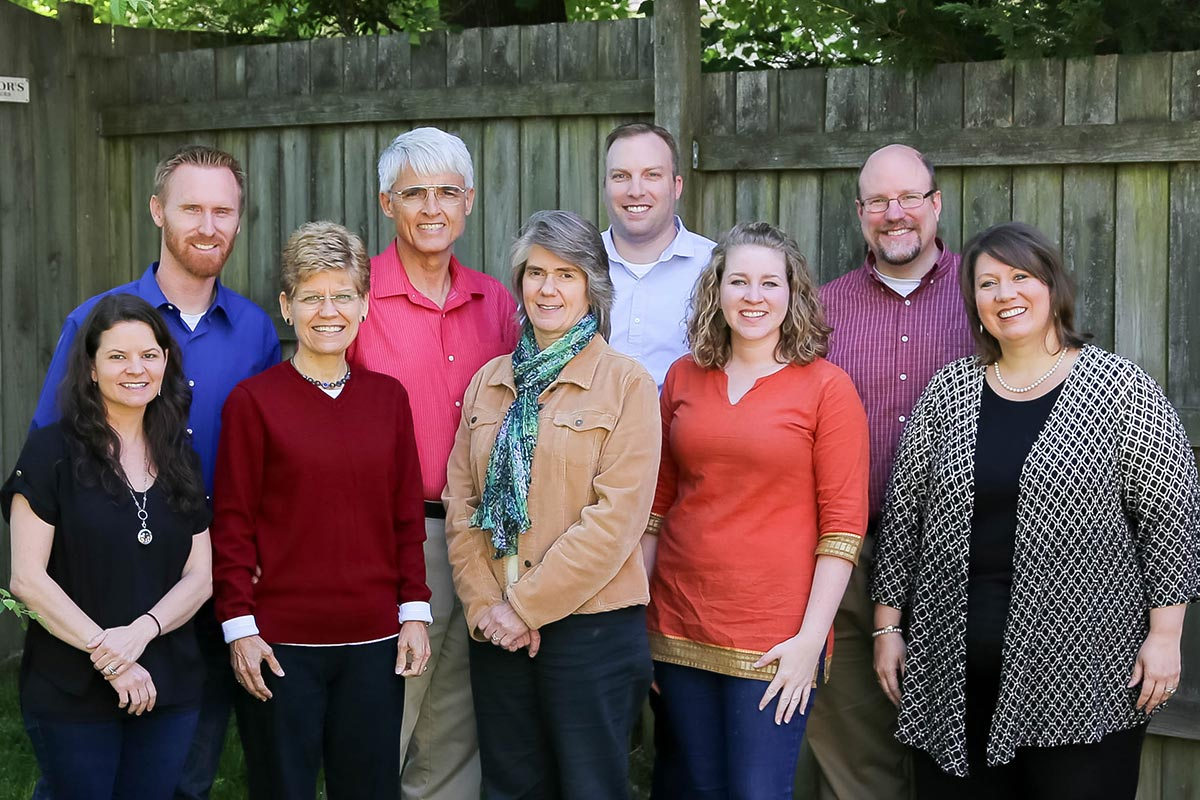
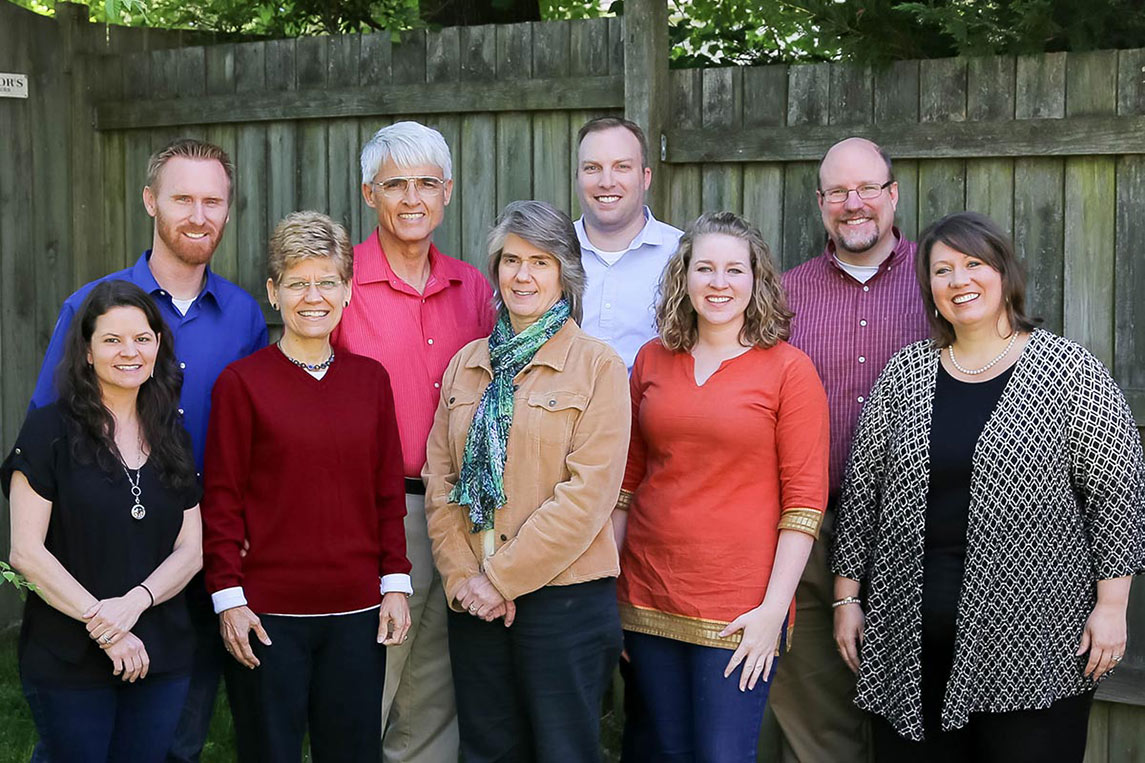
tweaks
trying to fix image alignment

diff --git a/main.html b/main.html
@@ -245,11 +245,9 @@
 							<h3 class="text-uppercase g-mb-30"><strong>Staff</strong></h3>
 							<p>Our full time staff members strive with excellence with helping community members connect with community resources.</p>
 						</div>
-<<<<<<< HEAD
+
 						<div class="arrow-section-img"><img class="full-width" src="assets/img/staff_1200w.jpg" alt=""></div>
-=======
-						
->>>>>>> master
+
 					</div>
 					<div class="col-sm-4 g-text-color-2 g-theme-bg-color-1">
 						<div class="arrow-section-img"><img class="full-width" src="assets/img/commPartners1200w.jpg" alt=""></div>
